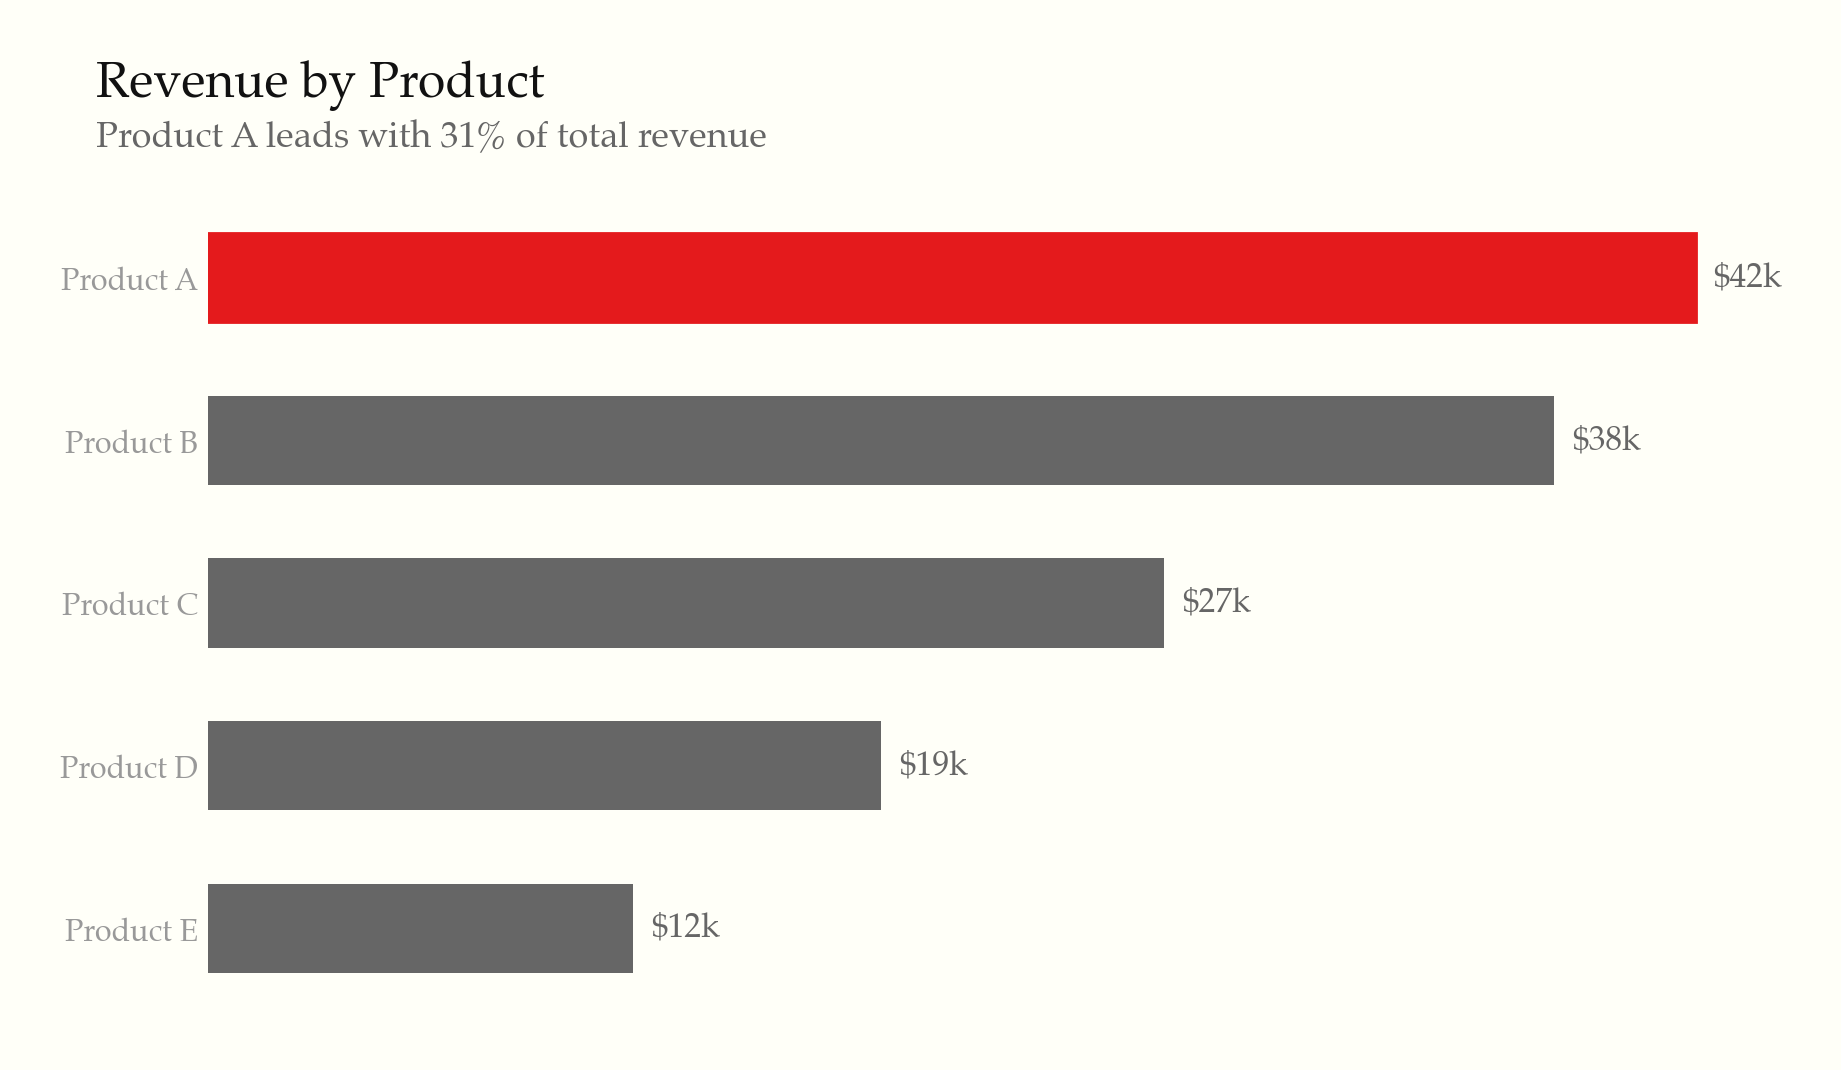
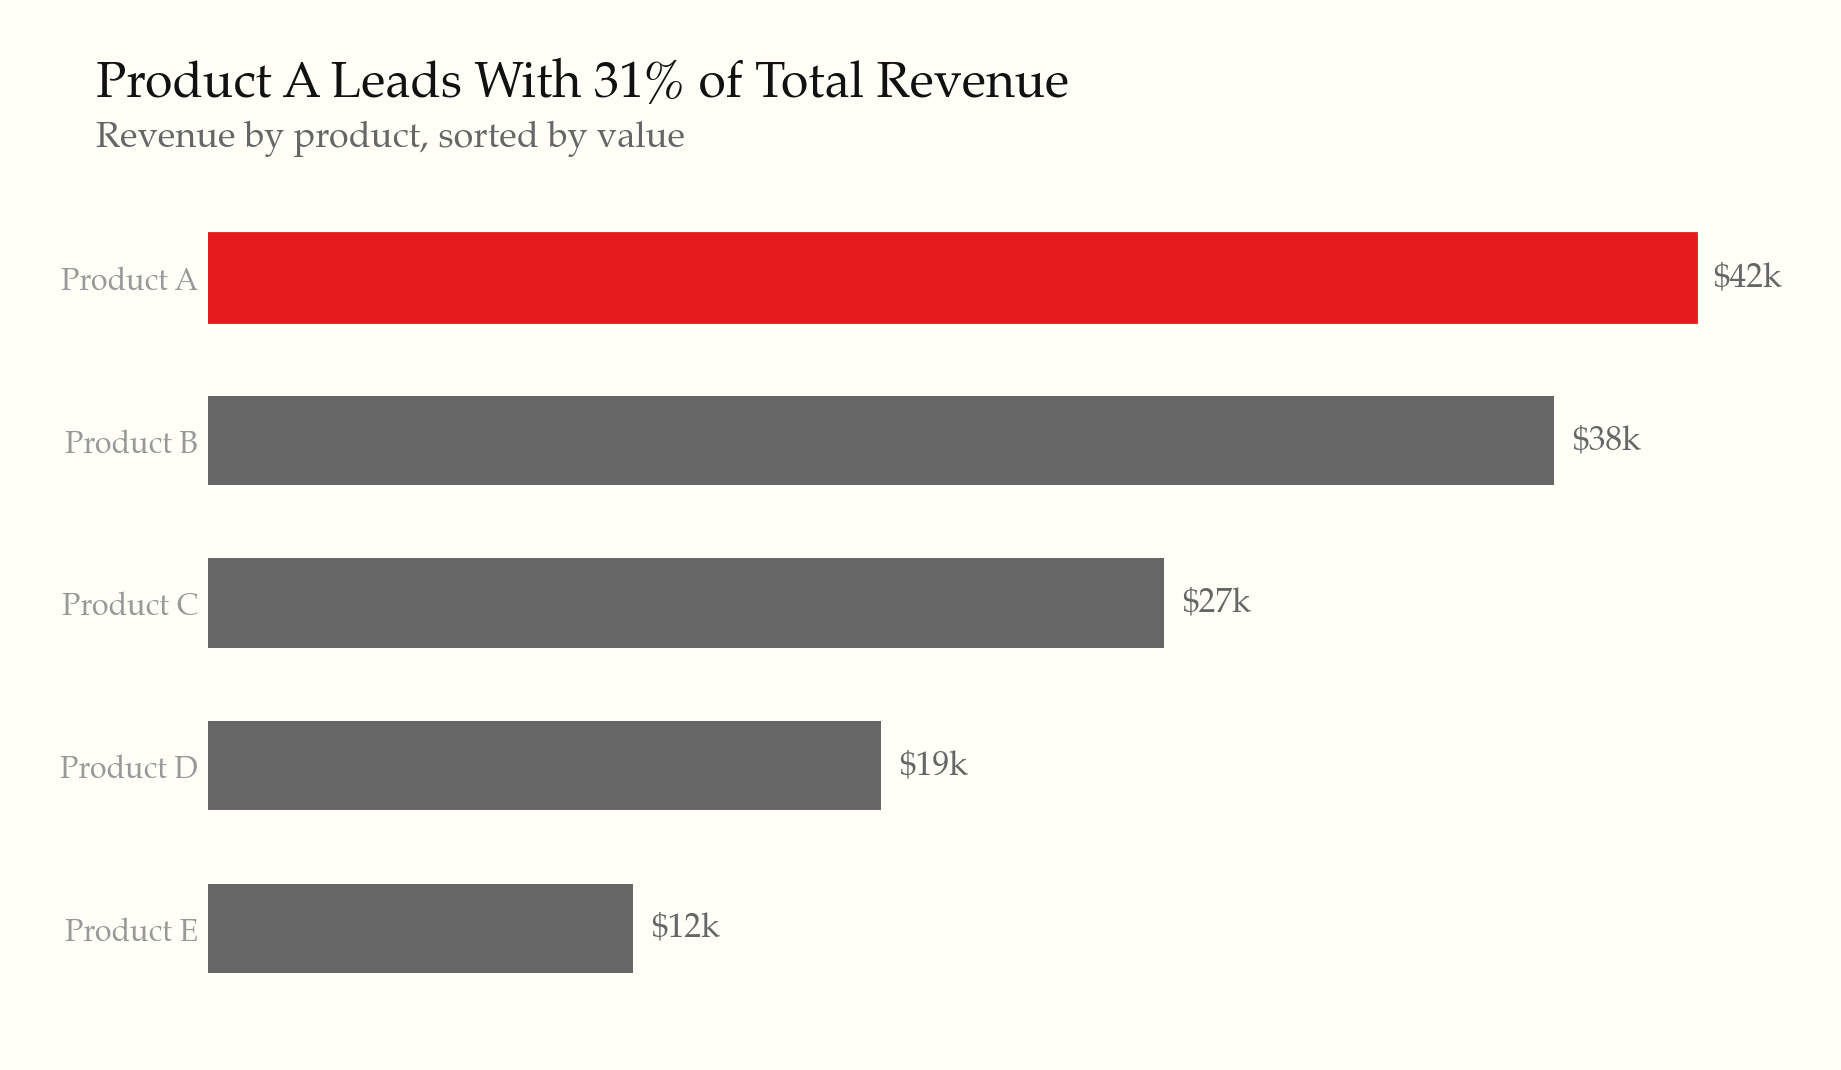
Fix Rule 20: use assertive titles on Charts 1, 2, 4
Swapped descriptive titles to finding-based titles per Rule 20
("Revenue Surged 23%" not "Revenue by Quarter"). Moved prior
titles to subtitles for context.

Changed region(s): [[0.0619, 0.0617, 0.5883, 0.1542]]

diff --git a/_docs/generate_showcase.py b/_docs/generate_showcase.py
@@ -87,9 +87,9 @@ ax.set_xticks(months)
 ax.set_xticklabels(mlabels)
 ax.set_ylabel("Revenue ($k)", fontsize=12, color=C["text2"])
 
-fig.text(0.125, 0.95, "Monthly Revenue vs. Target, 2025",
+fig.text(0.125, 0.95, "Revenue Exceeded Target Every Month, Accelerating in H2",
          fontsize=18, fontfamily="serif", color=C["text"])
-fig.text(0.125, 0.91, "Revenue exceeded target every month, accelerating in H2",
+fig.text(0.125, 0.91, "Monthly revenue vs. target, 2025",
          fontsize=13, fontfamily="serif", color=C["text2"])
 
 plt.tight_layout()
@@ -121,9 +121,9 @@ ax.set_xticks([])
 ax.tick_params(left=False)
 ax.invert_yaxis()
 
-fig.text(0.04, 0.95, "Revenue by Product",
+fig.text(0.04, 0.95, "Product A Leads With 31% of Total Revenue",
          fontsize=18, fontfamily="serif", color=C["text"])
-fig.text(0.04, 0.90, "Product A leads with 31% of total revenue",
+fig.text(0.04, 0.90, "Revenue by product, sorted by value",
          fontsize=13, fontfamily="serif", color=C["text2"])
 
 plt.tight_layout()
@@ -239,7 +239,7 @@ for ax in axes[1:]:
     ax.spines["left"].set_visible(False)
 
 fig.patch.set_facecolor("#fffff8")
-fig.text(0.08, 0.98, "Revenue Trend by Region",
+fig.text(0.08, 0.98, "North and East Outpaced South and West in 2025",
          fontsize=16, fontfamily="serif", color=C["text"], va="top")
 plt.tight_layout()
 plt.subplots_adjust(top=0.82, wspace=0.1)
@@ -324,7 +324,7 @@ fig, ax = plt.subplots(figsize=(9, 6))
 
 for name, g in groups.items():
     ax.scatter(g["x"], g["y"], marker=g["marker"], c=g["color"],
-              s=40, alpha=0.7, edgecolors="none", label=name)
+              s=40, alpha=0.7, edgecolors="none")
     # Direct label at cluster centroid
     cx, cy = np.mean(g["x"]), np.mean(g["y"])
     ax.annotate(name, xy=(cx, cy), xytext=(12, 0), textcoords="offset points",
